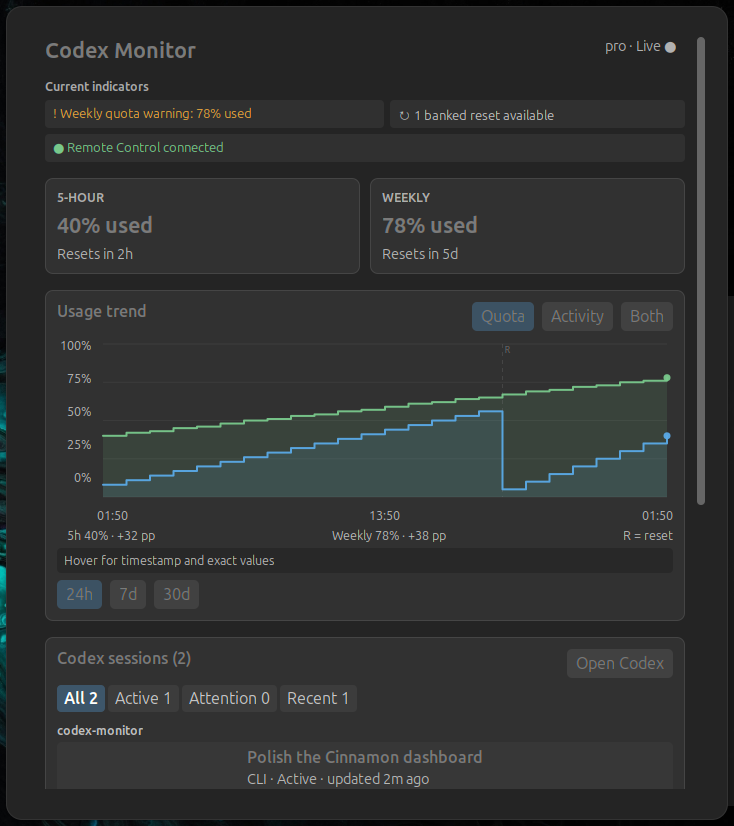
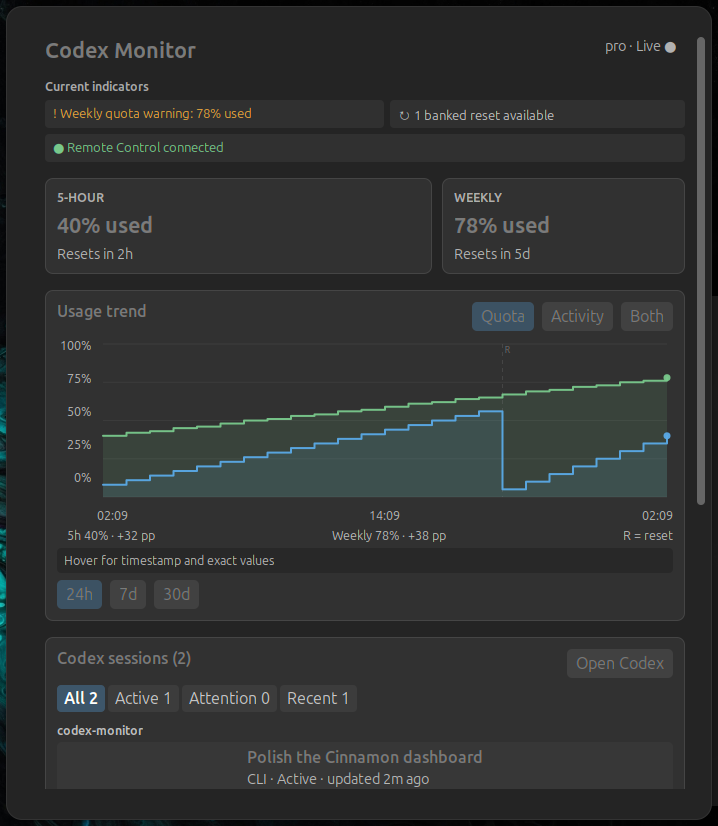
fix: tighten the dashboard scrollbar edge

diff --git a/files/codex-monitor@breixopd/stylesheet.css b/files/codex-monitor@breixopd/stylesheet.css
@@ -74,6 +74,11 @@
   spacing: 16px;
 }
 
+.popup-menu-item.codex-monitor-menu-item {
+  padding-right: 0;
+  margin-right: 0;
+}
+
 .codex-monitor-scroll {
   max-height: 752px;
   padding: 16px 0 16px 16px;

diff --git a/files/codex-monitor@breixopd/applet.js b/files/codex-monitor@breixopd/applet.js
@@ -152,6 +152,7 @@ class CodexMonitorApplet extends Applet.Applet {
     });
     this._menuItem = new PopupMenu.PopupBaseMenuItem({
       reactive: false,
+      style_class: 'codex-monitor-menu-item',
     });
     this._dashboardScroll = new St.ScrollView({
       style_class: 'codex-monitor-scroll',

diff --git a/tests/python/test_applet_source.py b/tests/python/test_applet_source.py
@@ -73,11 +73,17 @@ def test_scroll_viewport_owns_padding_and_clips_the_moving_dashboard():
     stylesheet = STYLESHEET_SOURCE.read_text(encoding="utf-8")
     dashboard_rule = _css_rule(stylesheet, ".codex-monitor-dashboard")
     scroll_rule = _css_rule(stylesheet, ".codex-monitor-scroll")
+    menu_item_rule = _css_rule(
+        stylesheet, ".popup-menu-item.codex-monitor-menu-item"
+    )
     header_status_rule = _css_rule(
         stylesheet, ".codex-monitor-header .codex-monitor-status"
     )
 
     assert "padding" not in dashboard_rule
+    assert "style_class: 'codex-monitor-menu-item'" in applet
+    assert "padding-right: 0" in menu_item_rule
+    assert "margin-right: 0" in menu_item_rule
     assert "padding: 16px 0 16px 16px" in scroll_rule
     assert "max-height: 752px" in scroll_rule
     assert "set_clip_to_allocation(true)" in applet

diff --git a/CHANGELOG.md b/CHANGELOG.md
@@ -11,7 +11,7 @@
 ### Changed
 
 - Widened the dashboard, arranged status alerts across readable rows, and added consistent spacing between content and the scrollbar
-- Reduced the outer scrollbar inset while preserving the gutter between the scrollbar and dashboard cards
+- Compensated for Cinnamon's popup inset so the scrollbar sits near the outer edge while preserving the gutter beside dashboard cards
 - Rewrote the project and Cinnamon store READMEs around installation, everyday use, privacy, and troubleshooting
 - Replaced the raw `app-server proxy` JSONL attempt with direct local Unix WebSocket transport and daemon-advertised socket discovery
 - Added bounded exponential retry for pairing claim checks and disabled stale revocation controls until the device channel recovers

diff --git a/README.md b/README.md
@@ -18,7 +18,7 @@ Missing information is shown as unavailable. The applet never guesses a quota, r
 
 ## Requirements
 
-- Linux Mint or another Cinnamon desktop with Cinnamon 6.0 or newer
+- Linux Mint or another Cinnamon desktop with Cinnamon 6.0 or newer; live tested on Cinnamon 6.6
 - Python 3.10 or newer
 - Codex CLI available as `codex`
 - Optional: `python3-qrcode` for a scannable Remote Control pairing code; a manual code is always available

diff --git a/store/README.md b/store/README.md
@@ -6,7 +6,7 @@ The compact panel view shows 5-hour and weekly usage at a glance. Open the dashb
 
 ## Requirements
 
-- Cinnamon 6.0 or newer
+- Cinnamon 6.0 or newer; live tested on Cinnamon 6.6
 - Python 3.10 or newer
 - The Codex CLI available as `codex`
 